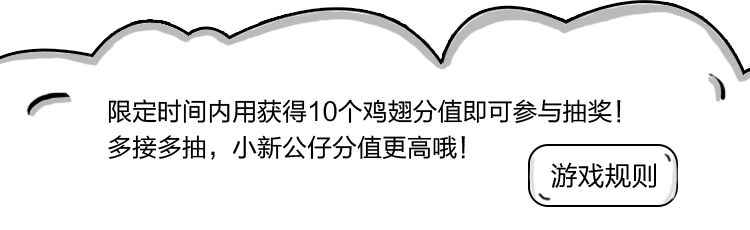
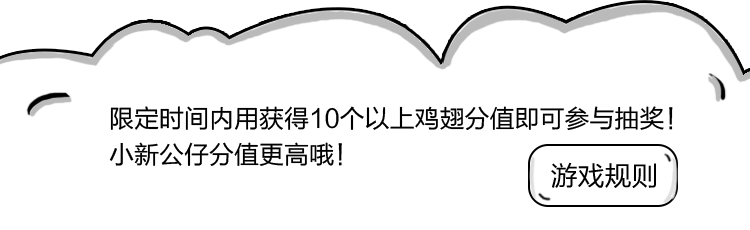
1
1

Changed region(s): [[0.1227, 0.4261, 0.92, 0.7304]]

diff --git a/turntable.html b/turntable.html
@@ -38,14 +38,17 @@ var turnplate={
 		'images/tshiwuUpan_03.jpg',
 		'images/tshiwuWanou_03.jpg',
 		'images/tnone_03.png',
-		'images/tnochance_03.png'
+		'images/tnochance_03.png',
+		'images/ruleBg_03.png'
 		]
 };
 $(document).ready(function(){
 	$(".model-bottomimg").height($("html").height()-$(".model-topimg").height());
 	$(".alert-quan").css('background-image','url('+turnplate.imgArr[3]+')');
 	$(".alert-shiwu").css('background-image','url('+turnplate.imgArr[4]+')');
-	$(".alert-none").css('background-image','url('+turnplate.imgArr[10]+')')
+	$(".alert-none").css('background-image','url('+turnplate.imgArr[10]+')');
+	$(".alert-ruleC").css('background-image','url('+turnplate.imgArr[12]+')')
+	$(".alert-ruleY").css('background-image','url('+turnplate.imgArr[12]+')')
 	var e=$("#aq-ma");
 	//动态添加大转盘的奖品与奖品区域背景颜色
 	turnplate.restaraunts = ["联想k歌宝", "优惠券", "谢谢参与","联想看家宝", "小新玩偶", "小新Air12","小新闪存盘"];
@@ -211,6 +214,32 @@ function drawRouletteWheel() {
 	<div class="alert-none">
 		<div class="none"><img src="images/t200btn_03.png"/></div>
 	</div>
+	<div class="alert-ruleC">
+		<img src="images/ruleCtit_03.png"/>
+		<p>1、活动时间：10.9-10.29<br />
+2、点击抽奖即有机会获取各类“小新·基”
+装备；<br />
+获得实物类奖品需填写收货地址和收货人信
+息，活动结束后工作人员会统一进行派送；
+实物奖品每个微信号仅限领奖一次。<br />
+优惠券类奖品每个微信号仅限领奖三次，奖
+品优惠券的使用有效期至2017年11月29日。</p>
+	</div>
+	<div class="alert-ruleY">
+		<img src="images/ruleYtit_03.png"/>
+		<p>使用时间：10.9-10.31<br />
+使用平台：联想商城小新铺子<br />
+使用金额及产品：<br />
+200元笔记本产品优惠码适用产品为：<br />
+10元周边产品优惠码使用产品为：<br />
+使用方式：通过本H5产品专区点击产品，或
+者在联想商城小新铺子内选择优惠码适用产
+品，加入购物车后，在订单页面→优惠信息
+→使用优惠码版块输入优惠码，点击使用即
+可。限制条件：优惠码不可叠加使用，每台
+商品最多使用一个优惠码；每个优惠码只能
+使用一次。</p>
+	</div>
 	<div class="model-topimg"></div>
 	<div class="model-bottomimg"></div>
 	<div class="model-name">
@@ -230,19 +259,12 @@ function drawRouletteWheel() {
 			<canvas class="item" id="wheelcanvas" width="422px" height="422px"></canvas>
 			<img class="pointer" src="images/p3-chou_03.png" alt=""/>
 		</div>
+		<div class="act-rules">
+			<img class="ar-c" src="images/ruleBtn_03.png" alt=""/>
+			<img class="ar-y" src="images/ruleBtn_05.png" alt=""/>
+		</div>
 	</div>
-	<div class="actRule">
-		<h4><img src="images/p3-ruleicon_03.png" alt="" width="14" height="14"/><span>抽奖活动规则</span></h4>
-		<p>
-			1、【活动时间】10.9-10.29<br />
-			<span style="display: inline-block;vertical-align: top;">2、</span><span style="display: inline-block;width: 92%;text-align: justify;">点击立即抽奖即有机会获取各类“小新·基 ”装备；
-			      获得实物类奖品需填写收货地址和收货人信息，活动
-			      结束后工作人员会统一进行派送；实物奖品每个微信
-			      号 仅限领奖一次。
-			      优惠券类奖品每个微信号仅限领奖三次，奖品优惠券
-			      的使用有效期至2017年11月29日。</span>
-		</p>
-	</div>
+	
 </body>
 <script type="text/javascript">
 	var tableSwiper = new Swiper('.swiper-container', {
@@ -251,6 +273,24 @@ function drawRouletteWheel() {
 		autoplay : 3000,
 		loop:true
 	});
+	$(".ar-c").on('click',function(){
+		$(".model-mask").show().addClass('ruleC');
+		$(".alert-ruleC").show();
+	})
+	$(".ar-y").on('click',function(){
+		$(".model-mask").show().addClass('ruleY');
+		$(".alert-ruleY").show();
+	})
+	$(".model-mask").on('click',function(e){
+		var x=event.target;
+		if(x.className=='model-mask ruleC'){
+			$(this).removeClass('ruleC').hide();
+			$(".alert-ruleC").hide();
+		}else if(x.className=='model-mask ruleY'){
+			$(this).removeClass('ruleY').hide();
+			$(".alert-ruleY").hide();
+		}
+	})
 </script>
 </html>
 

diff --git a/css/turntable.css b/css/turntable.css
@@ -20,9 +20,6 @@ html,body{height: 100%;width: 100%;}
 .mn-list ul{position: absolute;left: 0px;top: 0;line-height: 0.19rem;width:200%;}
 .mn-list ul li{float: left;}
 .swiper-slide p,.swiper-slide{height: 0.19rem;overflow: hidden;width: 300%;}
-.actRule{position: absolute;top:4.98rem;left: 0.35rem;width: 2.95rem;color: #a51917;max-height:1.13rem ;overflow-y: scroll;}
-.actRule h4	img,.actRule h4 span{vertical-align: middle;display: inline-block;font-weight: bold;}
-.actRule h4	img{margin-right: 0.03rem;}
 /*弹窗*/
 .model-mask{display: none;width: 100%;height: 100%;background-color: rgba(0,0,0,.5);position: absolute;top: 0;left: 0;z-index: 9999;}
 .alert-quan{display: none;width:3.07rem;height: 3.53rem;position: absolute;top: 1.1rem;left:0.34rem;z-index: 99999;background-size: 100% 100%;}
@@ -30,7 +27,6 @@ html,body{height: 100%;width: 100%;}
 .aq-copy{width:1rem;height: 0.4rem;position: absolute;top: 2.31rem;left: 1.03rem;}
 .aq-two{position: absolute;top:1.68rem;left: 1.77rem;width:1rem;height:0.15rem ;color: red;font-size: 0.14rem;line-height: 0.15rem;}
 .aq-ten{position: absolute;top: 1.98rem;left: 1.67rem;width:1rem;height:0.15rem ;color: red;font-size: 0.14rem;line-height: 0.15rem;}
-
 .alert-shiwu{display: none;width:3.05rem;height:4.28rem;z-index: 9999;position: absolute;background-size: 100% 100%;top: 1.31rem;left:0.35rem ;}
 .as-tit{width: 100%;text-align: center;margin-top:0.21rem ;margin-bottom: 0.15rem;}
 .as-img{width: 100%;text-align: center;text-align: -webkit-center;margin-bottom: 0.1rem;}
@@ -43,5 +39,14 @@ html,body{height: 100%;width: 100%;}
 .alert-shiwu .tel{width: 1.74rem;height: 0.27rem;background-image: url(../images/tshiwuTel_03.png );background-size: 100% 100%;border: none;margin-left: 0.03rem;}
 .alert-shiwu .adress{width: 1.86rem;height: 0.48rem;background-image: url(../images/tshiwuAdress_03.png);background-size: 100% 100%;border: none;resize: none;vertical-align: top;margin-left: 0.03rem;}
 .alert-shiwu .submit{width: 1rem;height: 0.4rem;position: absolute;bottom: 0.59rem;left:1.05rem ;}
-
 .alert-none{display: none;background-size: 100% 100%;width: 3.14rem;height: 1rem;position: absolute;top:2.81rem;left:0.35rem ;z-index: 9999;}
+/*规则*/
+.act-rules{padding-top: 0.2rem;}
+.alert-ruleC,.alert-ruleY{width:3.05rem;height: 3.46rem;background-size: 100% 100%;position: absolute;top: 1.72rem;left:0.45rem ;z-index: 9999;display: none;}
+.alert-ruleC{height: 2.8rem;}
+.alert-ruleC img,.alert-ruleY img{margin: 0 auto;margin-top: -0.2rem;}
+.alert-ruleC img{width: 1.32rem;height: 0.4rem;}
+.alert-ruleY img{width: 1.65rem;height: 0.42rem;}
+.alert-ruleC p,.alert-ruleY p{padding: 0.2rem 0.3rem 0;line-height: 0.2rem;font-size: 0.12rem;text-align: justify;}
+.ar-c{width: 0.91rem;height: 0.28rem;float: left;}
+.ar-y{width: 1rem;height: 0.28rem;float: right;}

diff --git a/drop.html b/drop.html
@@ -110,7 +110,7 @@
 					if(parent.cjNumber==1){
 						if(_score>20){
 							result();
-							$(".model-mask .text").html('厉害了！你获得了'+_score+'个鸡翅分值，但您只剩1次抽奖机会')
+							$(".model-mask .text").html('厉害了！你获得了'+_score+'个鸡翅分值，您还可以参与1次抽奖！')
 							$(".goNext").on('click',function(){
 								parent.swiper.slideNext();
 							});
@@ -119,7 +119,7 @@
 							});
 						}else if(_score>10){
 							result()
-							$(".model-mask .text").html('厉害了！你获得了'+_score+'个鸡翅分值，可以参与1次抽奖机会')
+							$(".model-mask .text").html('厉害了！你获得了'+_score+'个鸡翅分值，可以参与1次抽奖！')
 							$(".goNext").on('click',function(){
 								parent.swiper.slideNext();
 							});
@@ -137,7 +137,7 @@
 					}else if(parent.cjNumber==2){
 						if(_score>30){
 							result();
-							$(".model-mask .text").html('厉害了！你获得了'+_score+'个鸡翅分值，但您只剩2次抽奖机会')
+							$(".model-mask .text").html('厉害了！你获得了'+_score+'个鸡翅分值，您还可以参与2次抽奖！')
 							$(".goNext").on('click',function(){
 								parent.swiper.slideNext();
 							});
@@ -146,7 +146,7 @@
 							});
 						}else if(_score>20){
 							result()
-							$(".model-mask .text").html('厉害了！你获得了'+_score+'个鸡翅分值，可以参与2次抽奖机会')
+							$(".model-mask .text").html('厉害了！你获得了'+_score+'个鸡翅分值，可以参与2次抽奖！')
 							$(".goNext").on('click',function(){
 								parent.swiper.slideNext();
 							});
@@ -155,7 +155,7 @@
 							});
 						}else if(_score>10){
 							result()
-							$(".model-mask .text").html('厉害了！你获得了'+_score+'个鸡翅分值，可以参与1次抽奖机会')
+							$(".model-mask .text").html('厉害了！你获得了'+_score+'个鸡翅分值，可以参与1次抽奖！')
 							$(".goNext").on('click',function(){
 								parent.swiper.slideNext();
 								parent.cjNumber=1;
@@ -176,7 +176,7 @@
 							parent.cjNumber=parseInt(_score/10);
 							var strRule='<div class="gameOver" style="background-image: url('+arr[10]+');"><p class="text"></p><img class="again" src="'+arr[11]+'"/><img class="goNext" src="'+arr[12]+'"/></div>';
 							$mask.show().append(strRule);
-							$(".model-mask .text").html('厉害了！你获得了'+_score+'个鸡翅分值，可以参与'+parent.cjNumber+'次抽奖')
+							$(".model-mask .text").html('厉害了！你获得了'+_score+'个鸡翅分值，可以参与'+parent.cjNumber+'次抽奖！')
 							$(".goNext").on('click',function(){
 								parent.swiper.slideNext();
 							});

diff --git a/css/drop.css b/css/drop.css
@@ -10,8 +10,8 @@ html,body{height: 100%;}
 	z-index: 999;
 }
 .model-mask .rules{
-	width: 2.87rem;
-	height: 2.92rem;
+	width: 2.86rem;
+	height: 3rem;
 	position: absolute;
 	top: 1.57rem;
 	left: 0.42rem;
